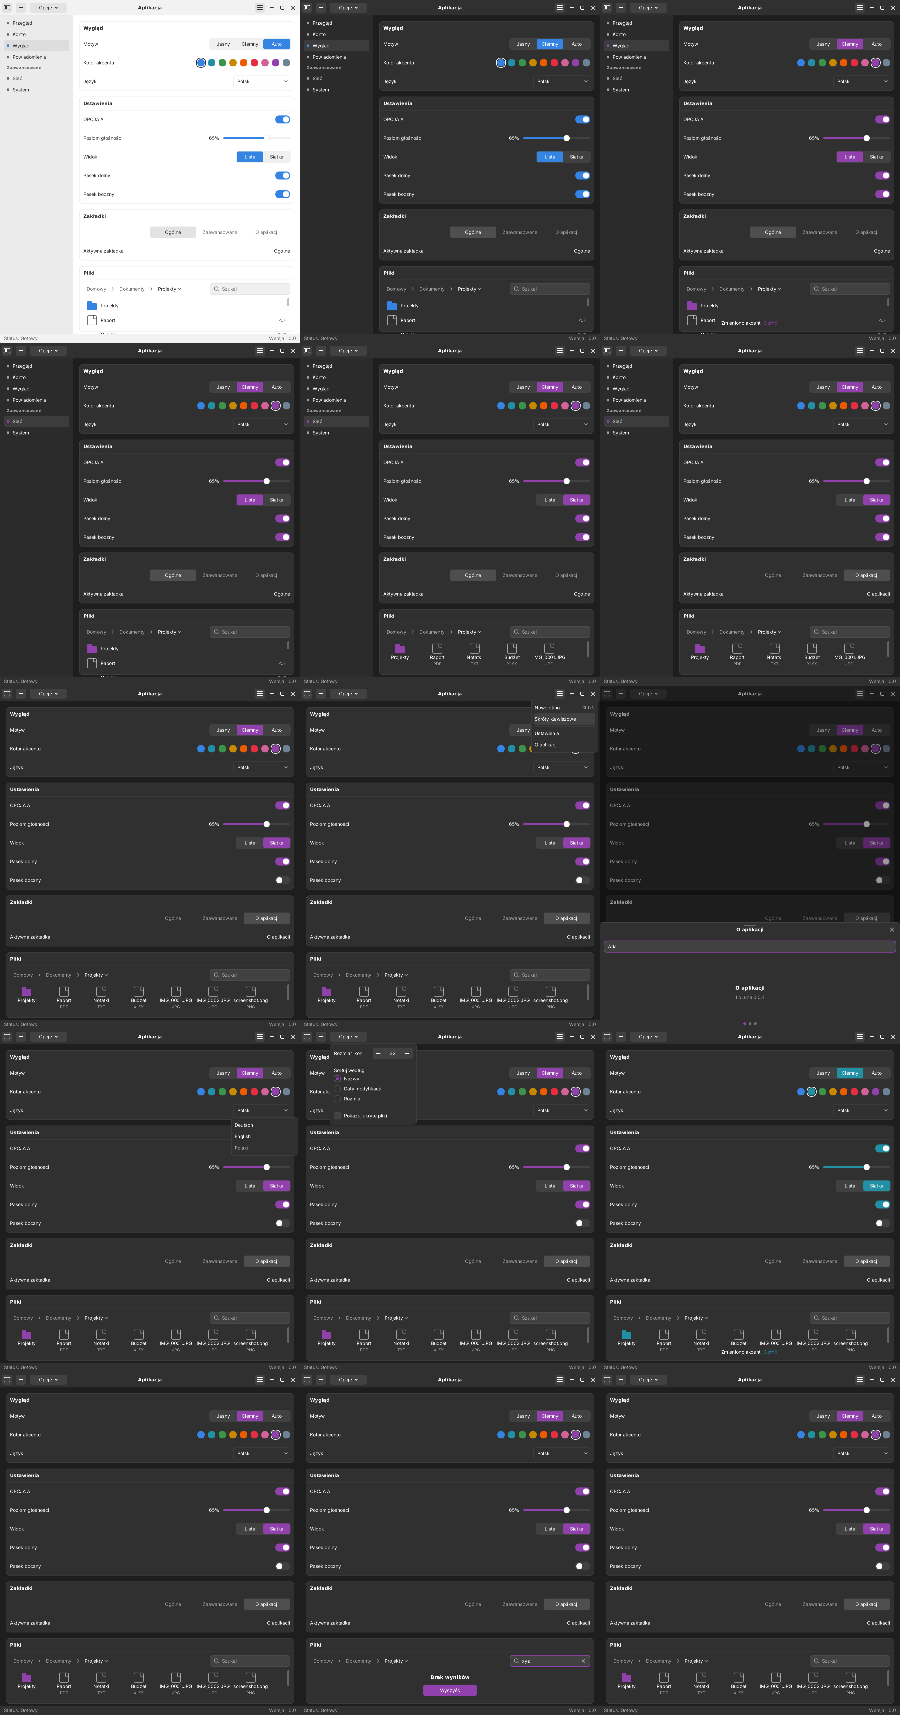
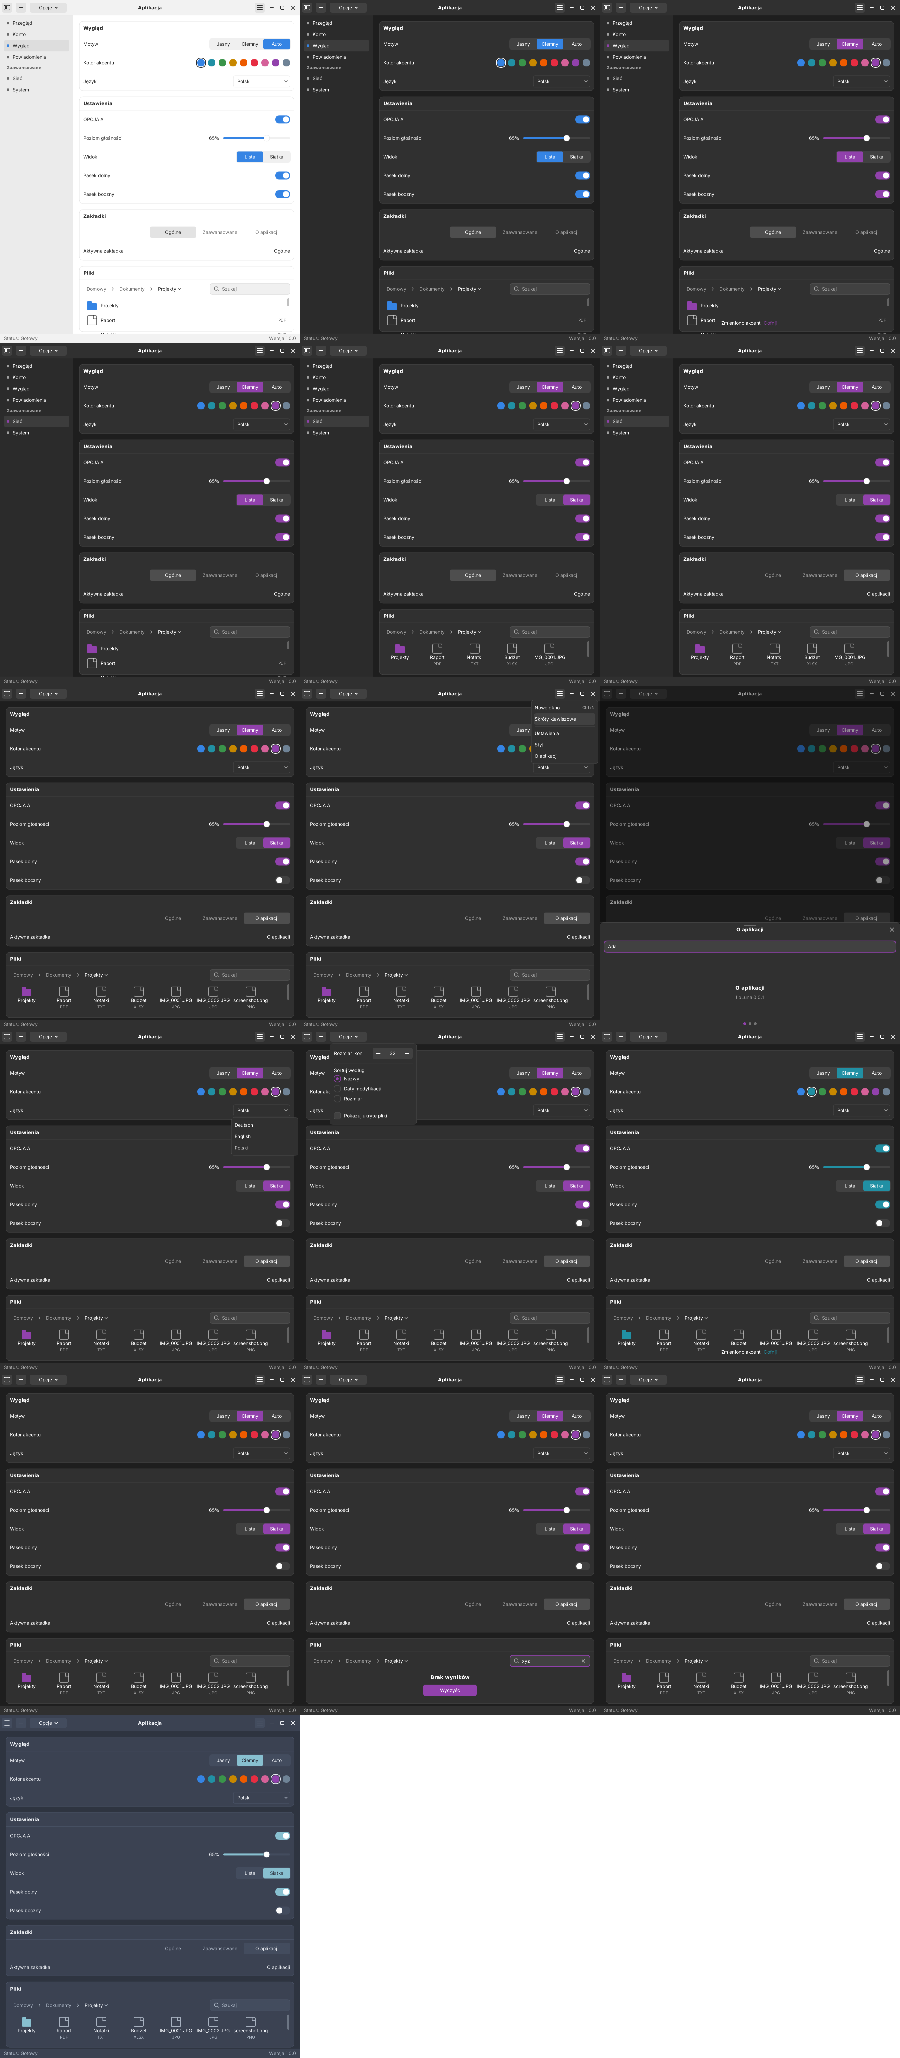
style: wybór stylu z UI (menu ☰ → „Styl")
- core: search_dirs() uwzględnia LUNA_THEMES_DIR (katalogi stylów dla dev/testów).
- demo: nowy popover Popover::Styles z listy available_themes() („Domyślny" + style),
  otwierany z menu ☰ → „Styl"; wybór stosowany natychmiast (set_style) i zapisywany.
- motyw pipeline: ThemeSettings::resolve_themed + Frame::style/set_style; okno demo
  liczy motyw ze stylem (klatka po zmianie od razu poprawna).
- platforma propaguje styl jak preferencję/akcent; bin simulate ustawia LUNA_THEMES_DIR
  (krok 16: wybór Nord) i renderuje z resolve_themed; test wyboru stylu (+1).
- i18n: Style, Default (en/pl/de + fr). README/roadmap aktualizowane.

diff --git a/apps/luna-demo/src/ui.rs b/apps/luna-demo/src/ui.rs
@@ -22,7 +22,9 @@ const PAD: f64 = 12.0;
 /// Wysokość wiersza ustawień w demo.
 const ROW_H: f64 = 56.0;
 /// Indeks pozycji „O aplikacji” w menu „☰” (otwiera dolny panel).
-const ABOUT_ENTRY: usize = 4;
+const ABOUT_ENTRY: usize = 5;
+/// Indeks pozycji „Styl” w menu „☰” (otwiera wybór stylu).
+const STYLE_ENTRY: usize = 4;
 
 /// Domyślna szerokość paska bocznego.
 pub const DEFAULT_SIDEBAR_W: f64 = 220.0;
@@ -41,6 +43,8 @@ pub enum Popover {
     Language,
     /// Popover opcji widoku pod przyciskiem „Opcje ▾”.
     Options,
+    /// Lista wyboru stylu (instalowanego z pliku).
+    Styles,
 }
 
 /// Stan aplikacji demo, który nie należy do warstwy platformy ani do widgetów.
@@ -227,8 +231,14 @@ pub fn menu_entries() -> Menu {
         MenuEntry::action(tr("Keyboard Shortcuts")),
         MenuEntry::separator(),
         MenuEntry::action(tr("Settings")),
+        MenuEntry::action(tr("Style")),
         MenuEntry::action(tr("About")),
     ])
+}
+
+/// Lista dostępnych stylów (z plików) do popoveru wyboru.
+pub fn style_list() -> Vec<libluna_core::StyledTheme> {
+    libluna_core::available_themes()
 }
 
 /// Pasek zakładek demo z przetłumaczonymi etykietami (tytuły w `TabView` to klucze).
@@ -367,6 +377,16 @@ pub fn popover_menu(
         }
         // Popover „Opcje” rysowany osobno (własny układ).
         Popover::Options => None,
+        // Wybór stylu: „Domyślny” + style z plików.
+        Popover::Styles => {
+            let mut entries = vec![MenuEntry::action(tr("Default"))];
+            for style in style_list() {
+                entries.push(MenuEntry::action(style.name));
+            }
+            let menu = Menu::new(entries);
+            let w = menu.width(text, theme);
+            Some((menu.place(lay.burger, w, viewport, theme), menu))
+        }
     }
 }
 
@@ -684,14 +704,33 @@ pub fn handle_events(
                         if demo.popover.is_some() {
                             if let (Some((panel, menu)), Some(kind)) = (&popover, demo.popover) {
                                 if let Some(entry) = menu.index_at(*panel, p, theme) {
-                                    if kind == Popover::Language {
-                                        let codes = libluna_i18n::languages();
-                                        if let Some(code) = codes.get(entry) {
-                                            libluna_i18n::set_locale(Locale::new(code));
+                                    match kind {
+                                        Popover::Language => {
+                                            let codes = libluna_i18n::languages();
+                                            if let Some(code) = codes.get(entry) {
+                                                libluna_i18n::set_locale(Locale::new(code));
+                                            }
                                         }
-                                    } else if entry == ABOUT_ENTRY {
-                                        // „O aplikacji” otwiera dolny panel.
-                                        demo.sheet.set_open(true);
+                                        Popover::Menu if entry == STYLE_ENTRY => {
+                                            // „Styl” otwiera wybór stylu.
+                                            demo.popover = Some(Popover::Styles);
+                                            demo.popover_hover = None;
+                                            continue;
+                                        }
+                                        Popover::Menu if entry == ABOUT_ENTRY => {
+                                            // „O aplikacji” otwiera dolny panel.
+                                            demo.sheet.set_open(true);
+                                        }
+                                        Popover::Styles => {
+                                            // 0 = „Domyślny”, dalej style z plików.
+                                            if entry == 0 {
+                                                settings.set_style(None);
+                                            } else if let Some(style) = style_list().get(entry - 1)
+                                            {
+                                                settings.set_style(Some(style.id.clone()));
+                                            }
+                                        }
+                                        _ => {}
                                     }
                                 }
                             }

diff --git a/apps/luna-demo/tests/interaction.rs b/apps/luna-demo/tests/interaction.rs
@@ -24,13 +24,13 @@ fn press(p: Point) -> Event {
 
 /// Wysyła jedno kliknięcie do logiki demo.
 fn click(settings: &mut ThemeSettings, demo: &mut Demo, p: Point) {
-    let theme = settings.resolve(false);
+    let theme = settings.resolve_themed(false);
     let text = TextEngine::system();
     ui::handle_events(settings, &[press(p)], size(), &theme, &text, demo);
 }
 
 fn layout(settings: &ThemeSettings, demo: &Demo) -> ui::Layout {
-    ui::layout(size(), &settings.resolve(false), demo)
+    ui::layout(size(), &settings.resolve_themed(false), demo)
 }
 
 #[test]
@@ -100,7 +100,7 @@ fn about_menu_opens_bottom_sheet_and_scrim_closes_it() {
     let theme = settings.resolve(false);
     let text = TextEngine::system();
     let about = ui::popover_menu(size(), &theme, &text, &layout(&settings, &demo), &demo)
-        .map(|(panel, menu)| menu.rows(panel, &theme)[4].rect.center())
+        .map(|(panel, menu)| menu.rows(panel, &theme)[5].rect.center())
         .unwrap();
     click(&mut settings, &mut demo, about);
     assert!(demo.sheet.is_open());
@@ -387,7 +387,7 @@ fn sheet_entry_focus_and_typing() {
     let theme = settings.resolve(false);
     let text = TextEngine::system();
     let about = ui::popover_menu(size(), &theme, &text, &layout(&settings, &demo), &demo)
-        .map(|(panel, menu)| menu.rows(panel, &theme)[4].rect.center())
+        .map(|(panel, menu)| menu.rows(panel, &theme)[5].rect.center())
         .expect("about entry");
     click(&mut settings, &mut demo, about);
     assert!(demo.sheet.is_open());
@@ -429,4 +429,35 @@ fn clicking_toast_body_dismisses_without_reverting() {
     );
     assert!(!demo.toast.is_open());
     assert_eq!(settings.accent(), accent_after);
+}
+
+#[test]
+fn choosing_style_from_menu_sets_style() {
+    // Wskaż katalog ze stylami z repozytorium (przykłady).
+    let themes =
+        std::path::Path::new(env!("CARGO_MANIFEST_DIR")).join("../../examples/luna/themes");
+    std::env::set_var("LUNA_THEMES_DIR", themes);
+
+    let mut settings = ThemeSettings::default();
+    let mut demo = Demo::default();
+    let theme = settings.resolve_themed(false);
+    let text = TextEngine::system();
+
+    // ☰ → „Styl” otwiera listę stylów.
+    let burger = layout(&settings, &demo).burger.center();
+    click(&mut settings, &mut demo, burger);
+    assert_eq!(demo.popover, Some(Popover::Menu));
+    let style_item = ui::popover_menu(size(), &theme, &text, &layout(&settings, &demo), &demo)
+        .map(|(panel, menu)| menu.rows(panel, &theme)[4].rect.center())
+        .expect("style entry");
+    click(&mut settings, &mut demo, style_item);
+    assert_eq!(demo.popover, Some(Popover::Styles));
+
+    // Wybór pierwszego stylu (Nord) ustawia go i zamyka popover.
+    let nord = ui::popover_menu(size(), &theme, &text, &layout(&settings, &demo), &demo)
+        .map(|(panel, menu)| menu.rows(panel, &theme)[1].rect.center())
+        .expect("style list");
+    click(&mut settings, &mut demo, nord);
+    assert_eq!(settings.style(), Some("nord"));
+    assert!(demo.popover.is_none());
 }

diff --git a/apps/luna-demo/src/bin/simulate.rs b/apps/luna-demo/src/bin/simulate.rs
@@ -31,7 +31,7 @@ fn press(p: Point) -> Event {
 }
 
 fn render_pixels(settings: &ThemeSettings, demo: &Demo, text: &TextEngine, size: Size) -> Vec<u8> {
-    let theme = settings.resolve(false);
+    let theme = settings.resolve_themed(false);
     let mut scene = Scene::new();
     ui::build_scene(
         &mut scene,
@@ -55,6 +55,10 @@ fn save_png(path: &str, pixels: &[u8]) -> Result<(), Box<dyn Error>> {
 
 fn main() -> Result<(), Box<dyn Error>> {
     set_locale(Locale::new("pl"));
+    // Katalog ze stylami (przykłady w repozytorium) — dla kroku wyboru stylu.
+    let themes =
+        std::path::Path::new(env!("CARGO_MANIFEST_DIR")).join("../../examples/luna/themes");
+    std::env::set_var("LUNA_THEMES_DIR", themes);
 
     let size = Size::new(W as f64, H as f64);
     let text = TextEngine::system();
@@ -71,7 +75,7 @@ fn main() -> Result<(), Box<dyn Error>> {
     // Pomocniczo: aktualny layout i wysłanie kliknięcia.
     macro_rules! layout {
         () => {
-            ui::layout(size, &settings.resolve(false), &demo)
+            ui::layout(size, &settings.resolve_themed(false), &demo)
         };
     }
     macro_rules! click {
@@ -176,7 +180,7 @@ fn main() -> Result<(), Box<dyn Error>> {
     // 9. Klik „O aplikacji” w otwartym menu → dolny panel (BottomSheet + Pager).
     let theme = settings.resolve(false);
     let about = ui::popover_menu(size, &theme, &text, &layout!(), &demo)
-        .map(|(panel, menu)| menu.rows(panel, &theme)[4].rect.center())
+        .map(|(panel, menu)| menu.rows(panel, &theme)[5].rect.center())
         .expect("menu is open");
     click!(about);
     assert!(demo.sheet.is_open(), "bottom sheet did not open");
@@ -295,6 +299,29 @@ fn main() -> Result<(), Box<dyn Error>> {
     );
     frames.push(render_pixels(&settings, &demo, &text, size));
     labels.push("15. Filter cleared".into());
+
+    // 16. Wybór stylu: ☰ → Styl → Nord (styl z pliku, steruje kolorem i geometrią).
+    let c = layout!().burger.center();
+    click!(c);
+    assert_eq!(demo.popover, Some(Popover::Menu), "menu did not open");
+    let theme = settings.resolve_themed(false);
+    let style_item = ui::popover_menu(size, &theme, &text, &layout!(), &demo)
+        .map(|(panel, menu)| menu.rows(panel, &theme)[4].rect.center())
+        .expect("style entry");
+    click!(style_item);
+    assert_eq!(
+        demo.popover,
+        Some(Popover::Styles),
+        "styles popover did not open"
+    );
+    let theme = settings.resolve_themed(false);
+    let nord = ui::popover_menu(size, &theme, &text, &layout!(), &demo)
+        .map(|(panel, menu)| menu.rows(panel, &theme)[1].rect.center())
+        .expect("style list");
+    click!(nord);
+    assert_eq!(settings.style(), Some("nord"), "style not applied");
+    frames.push(render_pixels(&settings, &demo, &text, size));
+    labels.push("16. Style: Nord".into());
 
     // Zapis klatek.
     for (i, pixels) in frames.iter().enumerate() {

diff --git a/apps/luna-demo/src/main.rs b/apps/luna-demo/src/main.rs
@@ -15,8 +15,6 @@ fn main() -> Result<(), Box<dyn Error>> {
 
     // Ustawienia wyglądu wczytane z dysku (jeśli są).
     let settings = ThemeSettings::load();
-    // Wybrany styl (instalowany z pliku) — wczytany raz, nakładany na każdą klatkę.
-    let style_patch = settings.style().and_then(libluna_core::theme_file::load);
     // Tryb systemowy: prosty przełącznik przez zmienną środowiskową (docelowo portal).
     let system_dark = std::env::var("LUNA_SYSTEM_DARK")
         .map(|v| !v.is_empty() && v != "0")
@@ -25,20 +23,16 @@ fn main() -> Result<(), Box<dyn Error>> {
     let config = AppConfig::new("Aplikacja")
         .app_id("eu.paganlinux.Luna.Settings")
         .initial_size(900, 1028)
-        .settings(settings.clone())
+        .settings(settings)
         .system_dark(system_dark);
 
     let mut demo = Demo::default();
 
     run(config, move |frame: &mut Frame| {
-        // Motyw rozwiązujemy z aktualnych ustawień (+ styl z pliku), aby klatka była poprawna.
-        let mut theme = settings.resolve(frame.system_dark());
-        if let Some(patch) = &style_patch {
-            theme = patch.build(theme);
-        }
-
-        // Logika interakcji jest niezależna od Waylanda: dostaje zdarzenia i ustawienia.
         let mut settings = frame.settings();
+
+        // Motyw (z ewentualnym stylem z pliku) do obsługi zdarzeń.
+        let theme = settings.resolve_themed(frame.system_dark());
         ui::handle_events(
             &mut settings,
             frame.events,
@@ -47,6 +41,7 @@ fn main() -> Result<(), Box<dyn Error>> {
             frame.text,
             &mut demo,
         );
+
         // Akcje okna zgłoszone przez HeaderBar (kontrolki).
         if demo.pending_close {
             frame.close();
@@ -67,8 +62,12 @@ fn main() -> Result<(), Box<dyn Error>> {
         if settings.accent() != frame.accent() {
             frame.set_accent(settings.accent());
         }
+        if settings.style() != frame.style() {
+            frame.set_style(settings.style().map(str::to_owned));
+        }
 
-        // Motyw rozwiązujemy z aktualnych ustawień, aby klatka była już poprawna.
+        // Motyw po zmianach (np. wybór stylu) — klatka od razu poprawna.
+        let theme = settings.resolve_themed(frame.system_dark());
         ui::build_scene(
             frame.scene,
             &theme,

diff --git a/crates/libluna-core/src/theme_file.rs b/crates/libluna-core/src/theme_file.rs
@@ -170,8 +170,18 @@ pub struct StyledTheme {
 }
 
 /// Katalogi wyszukiwania stylów (kolejność = priorytet).
+///
+/// Oprócz katalogów standardowych uwzględnia `LUNA_THEMES_DIR` — listę katalogów
+/// rozdzielonych `:` (przydatne w dev/testach, by wskazać katalog ze stylami).
 pub fn search_dirs() -> Vec<PathBuf> {
     let mut dirs = Vec::new();
+    if let Some(extra) = std::env::var_os("LUNA_THEMES_DIR") {
+        for part in std::env::split_paths(&extra) {
+            if !part.as_os_str().is_empty() {
+                dirs.push(part);
+            }
+        }
+    }
     if let Some(home) = std::env::var_os("HOME") {
         let home = PathBuf::from(home);
         dirs.push(home.join(".config").join("luna").join("themes"));

diff --git a/crates/libluna-platform/src/window.rs b/crates/libluna-platform/src/window.rs
@@ -169,6 +169,17 @@ impl Frame<'_> {
         let _ = self.settings.save();
     }
 
+    /// Nazwa wybranego stylu (instalowanego z pliku), jeśli ustawiona.
+    pub fn style(&self) -> Option<&str> {
+        self.settings.style()
+    }
+
+    /// Ustawia styl (instalowany z pliku); zapisuje i przerysowuje.
+    pub fn set_style(&mut self, style: Option<String>) {
+        self.settings.set_style(style);
+        let _ = self.settings.save();
+    }
+
     /// Czy system zgłasza tryb ciemny.
     pub const fn system_dark(&self) -> bool {
         self.system_dark

diff --git a/README.md b/README.md
@@ -194,7 +194,8 @@ cargo run -p libluna --example minimal
   (ikona zmienia się w `▭`), **`☰`** aby otworzyć menu (zamyka się klikiem poza panelem),
   lub kontrolkę **języka** (`DropDown`). Przycisk **„Opcje ▾”** otwiera **popover opcji**
   (`Stepper` rozmiaru ikon, `RadioGroup` sortowania, `CheckButton` ukrytych plików).
-  Z menu **`☰` → „O aplikacji”** otwiera się **dolny panel**
+  Z menu **`☰` → „Styl”** wybierzesz **styl z pliku** (natychmiast stosowany i zapisywany),
+  a **`☰` → „O aplikacji”** otwiera **dolny panel**
   (`BottomSheet` z karuzelą stron `Pager` i polem tekstowym `Entry` — klik = fokus, wpisywanie),
   zamykany klikiem w tło, przyciskiem `✕` lub
   przeciągnięciem w dół. W karcie **Pliki** kliknij element **okruszków** (nawigacja „w górę”),
@@ -268,9 +269,10 @@ cargo run -p luna-demo --bin render -- --theme examples/luna/themes/nord.theme d
 cargo run -p luna-demo --bin layout -- --theme examples/luna/themes/nord.theme --out docs/images/layout-nord.png
 ```
 
-Do zrobienia pozostaje **interaktywny wybór stylu w Ustawieniach** oraz **okno podglądu**
-na żywo przy wyborze — silnik (skanowanie katalogów: `available_themes()`, wczytywanie,
-nakładanie) jest już gotowy.
+Do zrobienia pozostaje **okno podglądu na żywo** przy wyborze (miniatura). Sam wybór stylu
+działa już w demo: **menu `☰` → „Styl”** otwiera listę („Domyślny” + style z plików),
+a wybór jest natychmiast stosowany i zapisywany w `theme.conf`. W headless demo/testach katalog
+ze stylami wskazuje `LUNA_THEMES_DIR`.
 
 ### Co jeszcze decyduje o „looku GTK4”
 

diff --git a/docs/roadmap.md b/docs/roadmap.md
@@ -55,8 +55,10 @@ a na końcu odtworzył realne aplikacje środowiska Luna z makiet.
 - **Style instalowane z plików**: `libluna-core::theme_file` (`ThemePatch`, klucze kropkowe,
   `available_themes()`, nakładanie na bazę), trwały wybór stylu w `ThemeSettings` (`theme.conf`),
   przykłady `examples/luna/themes/*.theme`, podgląd przez `render/layout --theme`.
-- Dalej: **interaktywny wybór stylu** w Ustawieniach + **okno podglądu** przy wyborze,
-  a potem scroll/overflow w `TabBar`, migracja `luna-demo` na drzewo układu.
+- Wybór stylu w UI: menu `☰` → „Styl” (lista `available_themes()`, „Domyślny” + style z plików),
+  stosowany na żywo i zapisywany w `theme.conf`; `LUNA_THEMES_DIR` dla dev/testów.
+- Dalej: **okno podglądu** przy wyborze (miniatura z realnych widgetów), scroll/overflow
+  w `TabBar`, migracja `luna-demo` na drzewo układu.
 
 ## M2 — Układ + widgety bazowe
 - Dwuprzebiegowy silnik measure/allocate — ✅ **częściowo** (silnik + kontenery `VBox`/`HBox`,
